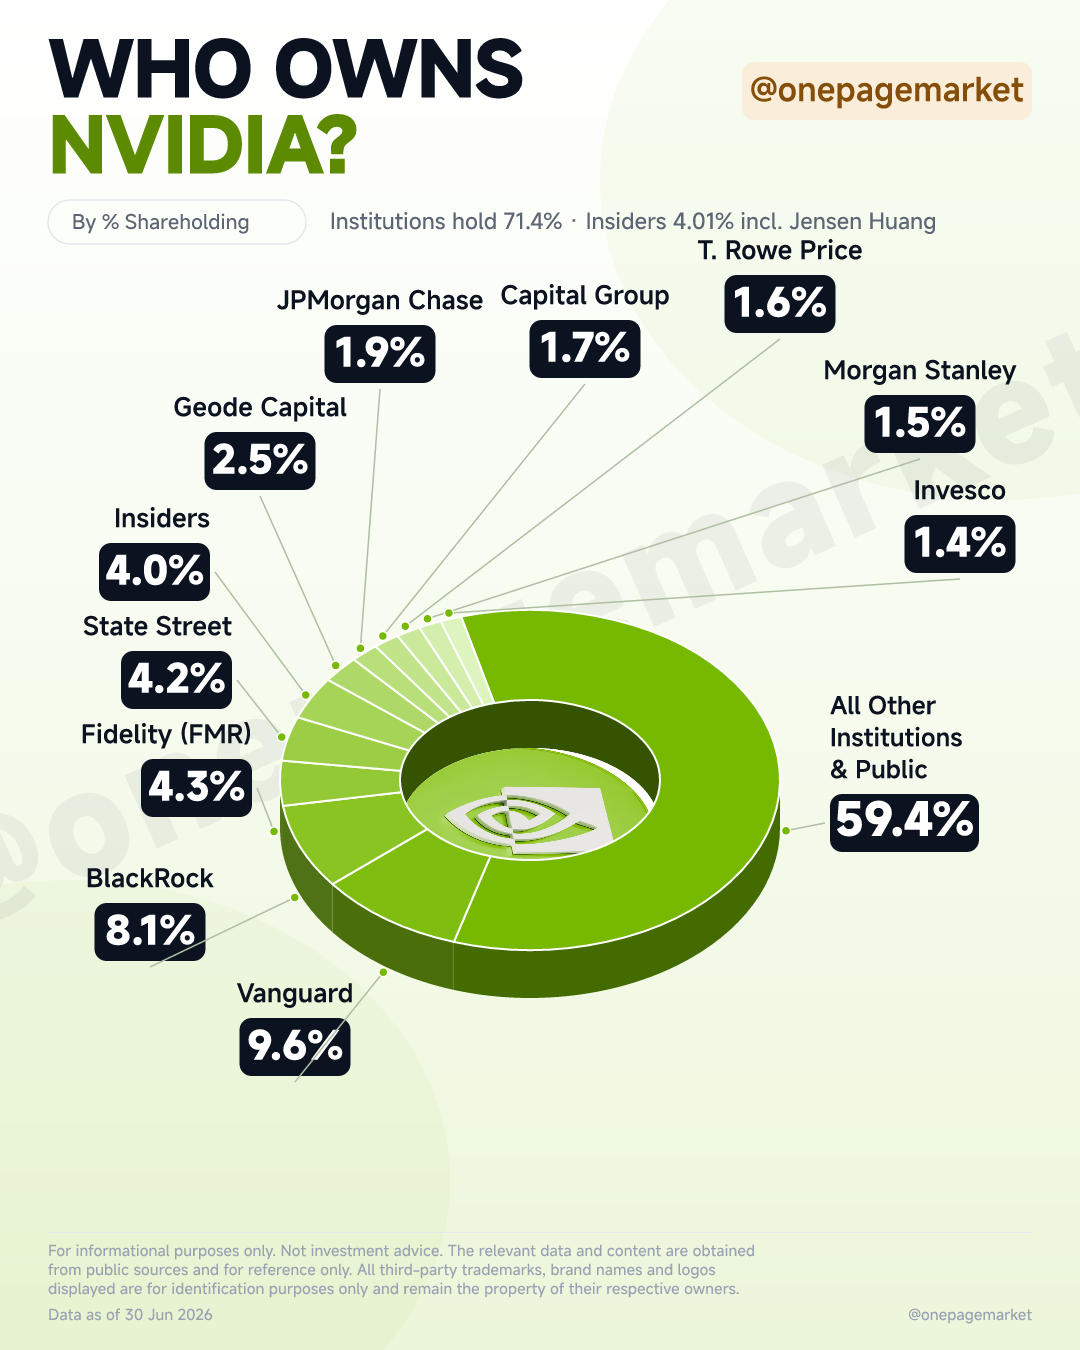
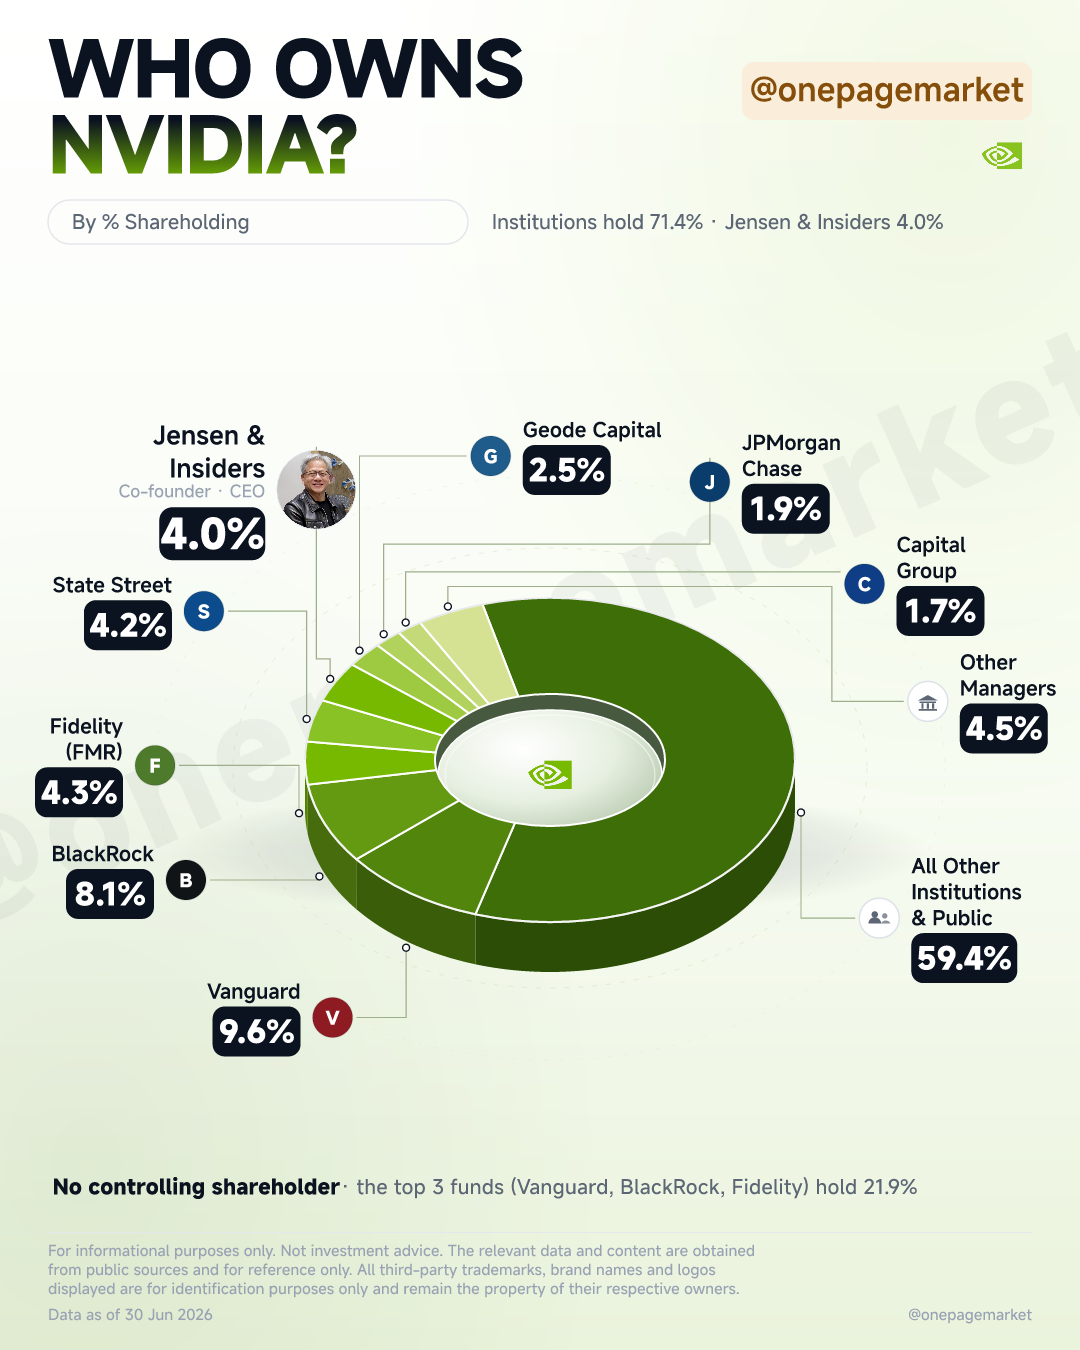
who-owns: NVIDIA card v2 (new layout: orthogonal leaders + Jensen photo hero)

diff --git a/scripts/build_ownership_nvda.js b/scripts/build_ownership_nvda.js
@@ -1,0 +1,88 @@
+/**
+ * Who Owns NVIDIA? — 3D 立體空心環股權卡（淺底 · NVIDIA 綠色階）
+ *   數據：13F Q2-2026（Yahoo Finance / Stockrow 交叉核對）
+ *         institutions 71.4% · insiders 4.01%（含 Jensen Huang）· All Other 59.4%
+ *   引擎：scripts/lib/ownership_card.js（正交引導線 + 同心橢圓軌道 + hero 照片徽章）
+ *   用法：node scripts/build_ownership_nvda.js
+ *
+ * 2026-11-09 依新版式重出：hero = Jensen & Insiders（照片徽章）、
+ *   機構用品牌色字母牌（meta 卡慣例：wordmark 在 46px 不可讀）。
+ */
+const fs = require('fs');
+const path = require('path');
+const build = require('./lib/ownership_card');
+
+const BASE = path.join(__dirname, '..');
+const D = JSON.parse(fs.readFileSync(path.join(BASE, 'data', 'ownership-nvda.json'), 'utf8'));
+
+/* NVIDIA 綠階：深綠 → 淺黃綠（不含 hero 那格），順序照 JSON 分段次序 */
+const RAMP = ['#3E6E08', '#52850C', '#649A12', '#76B900', '#89C224', '#9DCA40', '#B1D25C',
+              '#C4DA78', '#D6E293', '#E5EAAC', '#EFF0C0'];
+const HERO_GREEN = '#76B900';           // NVIDIA 品牌綠，只給 hero（Jensen & Insiders）
+{
+  let ri = 0;
+  D.segments.forEach((s) => {
+    if (s.hero) s.color = HERO_GREEN;
+    else s.color = RAMP[Math.min(ri++, RAMP.length - 1)];
+  });
+}
+
+/* 底部 takeaway（msft/meta 慣例：一行結論，非圖例重複） */
+const TAKE_A = 'No controlling shareholder';
+const TAKE_B = ' · the top 3 funds (Vanguard, BlackRock, Fidelity) hold 21.9%';
+
+function takeaway() {
+  const fs_ = 20, W = 1080;
+  const wA = TAKE_A.length * 0.56 * fs_, wB = TAKE_B.length * 0.56 * fs_;
+  const x0 = W / 2 - (wA + wB) / 2;
+  return `<text x="${x0.toFixed(1)}" y="1194" font-family="MiSans" font-size="${fs_}" font-weight="600" fill="#0B1220" letter-spacing="0.2">${TAKE_A}` +
+    `<tspan font-weight="400" fill="#5C6675">${TAKE_B}</tspan></text>`;
+}
+const TAKE_W = (TAKE_A.length + TAKE_B.length) * 0.56 * 20;
+const TAKEBOX = { x0: 540 - TAKE_W / 2 - 8, y0: 1194 - 26, x1: 540 + TAKE_W / 2 + 8, y1: 1194 + 12 };
+
+build({
+  data: D,
+  assetsDir: path.join(BASE, 'assets', 'nvda'),
+  outBase: 'nvda',
+  start: -106,
+  caption: "Who actually owns NVIDIA? Vanguard + BlackRock hold ~17.7% combined — that's 4x all insiders (4.0%, Jensen included).\nThe other 59.4%? Just everyone else.\nNo single fund controls it.",
+  relaxCost: { even: 0.3, mid: 1.2 },
+  labelSize: { badge: 40, nfs: 20, pfs: 30 },
+  orbit: { g0: 165, g1: 125, c0: 620, c1: 460 },
+  ring: { CX: 550, CY: 760, RX: 245, RY: 162, D: 50, IX: 115, IY: 66 },
+  wallShade: -0.30,
+  hero: 'Jensen & Insiders',
+  heroRole: 'Co-founder · CEO',
+  heroSize: { badge: 78, nfs: 25, pfs: 40 },
+  noteSize: 20,
+  palette: {
+    bgTop: '#FFFFFF', bgMid: '#F8FCF4', bgBot: '#EAF3DC',
+    glowA: ['#76B900', 0.10], glowB: ['#4E7B2B', 0.09],
+    orbitStroke1: '#CFE0B4', orbitStroke2: '#DDEAC6',
+    title2: ['#0B1220', '#76B900'],
+    handlePill: '#FAEEDA', handleInk: '#854F0B',
+    lead: '#9CAE8A', anchorFill: '#FFFFFF',
+  },
+  wordmark: { file: 'nvda-mark.png', w: 60, h: 60, y: 126 },
+  nameLines: {
+    'All Other|Institutions|& Public': ['All Other', 'Institutions', '& Public'],
+    'Jensen & Insiders': ['Jensen &', 'Insiders'],
+    'Fidelity (FMR)': ['Fidelity', '(FMR)'],
+    'JPMorgan Chase': ['JPMorgan', 'Chase'],
+    'Capital Group': ['Capital', 'Group'],
+    'T. Rowe Price': ['T. Rowe', 'Price'],
+    'Other Managers': ['Other', 'Managers'],
+  },
+  disc: {
+    dx: 0, dy: 15, drx: 112, dry: 65, dd: 18,
+    top: ['#FFFFFF', '#E6EFE0', '#B4C7AB'],
+    rim: ['#5F7A56', '#C9DCC0', '#4E6A46'],
+    under: '#48613F', underOp: 0.42,
+    hole: '#66805C', holeShade: -0.30,
+    file: 'nvda-mark.png',
+    imgW: 64, imgH: 64, imgDx: 0, imgDy: 0,
+  },
+  figure: { svg: () => takeaway() },
+  obstacles: [TAKEBOX],
+});

diff --git a/scripts/lib/ownership_card.js b/scripts/lib/ownership_card.js
@@ -389,7 +389,18 @@ module.exports = function build(OPTS) {
   }
 
   // 兩段式：粗網格打分（便宜）→ 只精修前 N 個候選（貴）
+  // orbitFix（可選）：手動指定軌道 { cx, g, th0 } 跳過搜索——自動搜索被
+  // pair 碰撞卡在錯誤槽位區時（如 All Other >55% 的巨段卡），手動掃 th0 兜底。
   function searchOrbit() {
+    if (O.orbitFix) {
+      const F = O.orbitFix;
+      const ORB = { cx: F.cx, cy: CY, rxg: RX + F.g, ryg: RY + F.g };
+      let slots = refine(segs.map((s, i) => buildSlot(s, F.th0 + i * 360 / segs.length, ORB)), ORB);
+      if (violCount(slots).v === 0) slots = relax(slots, ORB);
+      const { v, det } = violCount(slots);
+      console.log('orbit(fix):', JSON.stringify(ORB), 'th0', F.th0, 'viol', v, JSON.stringify(det));
+      return { v, det, fit: 0, ORB, slots };
+    }
     const N = segs.length, step = 360 / N;
     const cands = [];
     const OR0 = O.orbit || {};
@@ -636,7 +647,7 @@ module.exports = function build(OPTS) {
     .slice()
     .sort((p, q) => Math.hypot(q.badgeC.x - px(q.s.aMid, RX + 6), q.badgeC.y - py(q.s.aMid, RY + 6)) -
                     Math.hypot(p.badgeC.x - px(p.s.aMid, RX + 6), p.badgeC.y - py(p.s.aMid, RY + 6)))
-    .forEach((sl) => { if (!drawOrbitLabel(sl, ORBIT.slots)) fallbackCount++; });
+    .forEach((sl) => { const ok = drawOrbitLabel(sl, ORBIT.slots); if (!ok) { fallbackCount++; if (process.env.DIAG) console.log('  fallback:', sl.s.name); } });
   if (fallbackCount) console.log('leader fallback:', fallbackCount);
 
   /* --- 品牌主體圖形（選配，如星艦 / 標的芯片）--- */
